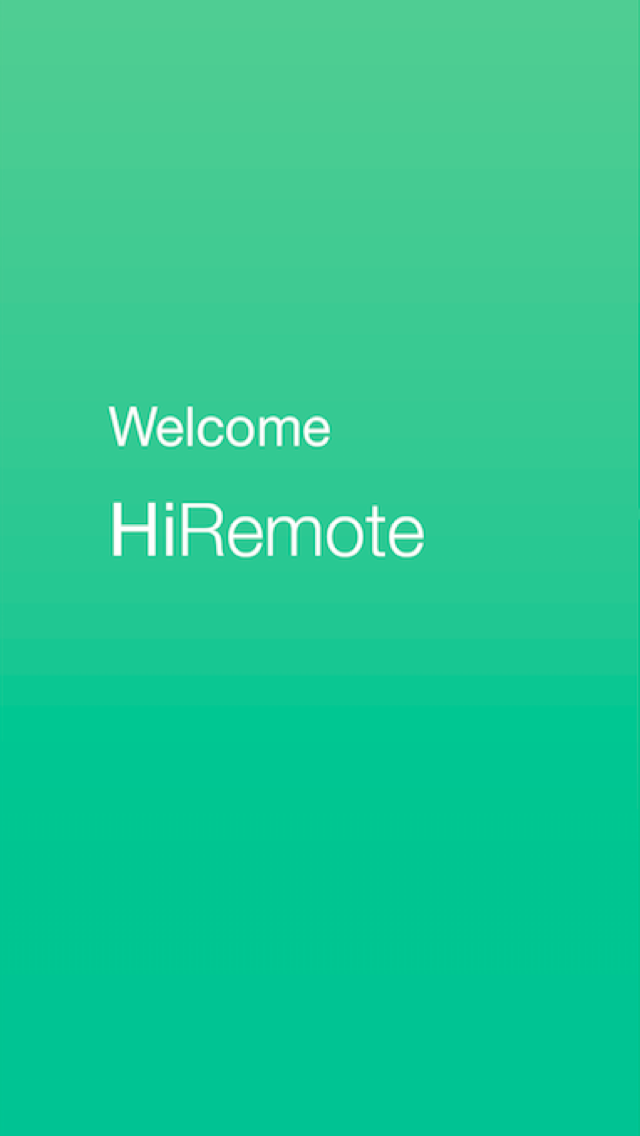
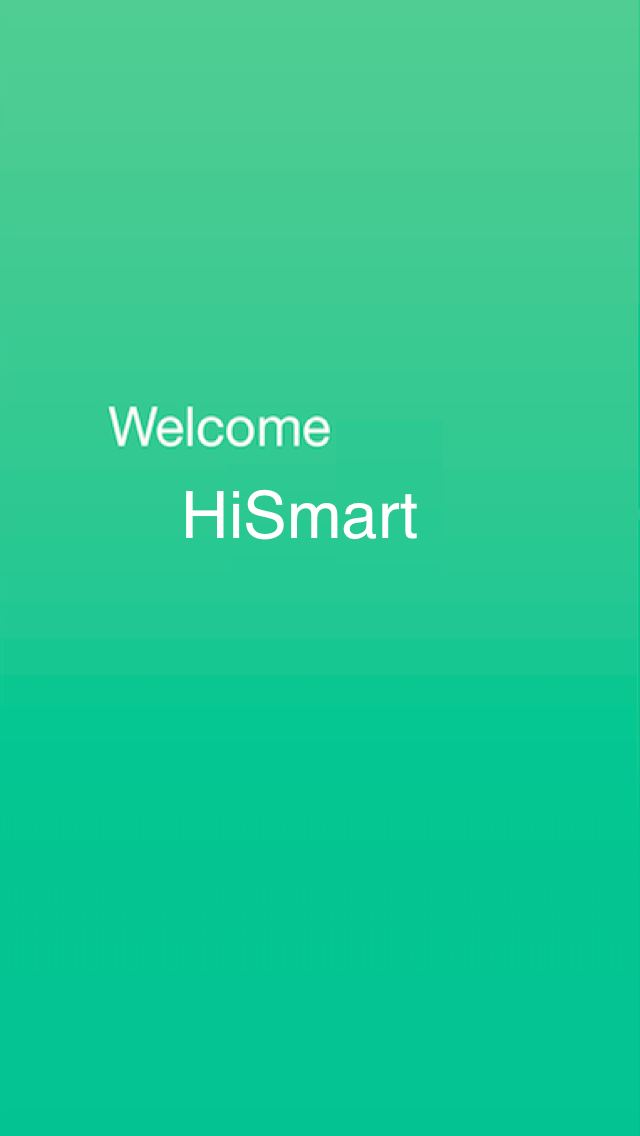
修改图片，修改id

Changed region(s): [[0.1562, 0.4313, 0.6875, 0.493]]

diff --git a/HiRemote/AppDelegate.m b/HiRemote/AppDelegate.m
@@ -557,7 +557,7 @@ void completionCallback (SystemSoundID  mySSID, void* data) {
 
 
 - (void)checkTheNewApp {
-    NSMutableURLRequest *request = [NSMutableURLRequest requestWithURL:[NSURL URLWithString:@"http://192.168.31.210:8090/lepow/api/apps"]
+    NSMutableURLRequest *request = [NSMutableURLRequest requestWithURL:[NSURL URLWithString:@"http://app.lepow.net:8080/lepow/api/apps"]
                                                            cachePolicy:NSURLRequestReloadIgnoringLocalCacheData
                                                        timeoutInterval:60.0];
     NSMutableDictionary *paraDic = [NSMutableDictionary dictionaryWithObjectsAndKeys:@"ios",@"system", nil];
@@ -597,11 +597,11 @@ void completionCallback (SystemSoundID  mySSID, void* data) {
         if (!connectionError) {
             NSDictionary *result = [NSJSONSerialization JSONObjectWithData:data options:kNilOptions error:nil];
             if ([result count] > 0) {
-                int code = [[result valueForKey:@"code"] integerValue];
+                long code = [[result valueForKey:@"code"] integerValue];
                 if (code == 0) {//成功
                     NSDictionary *infoDic = [result valueForKey:@"data"];
                     if (infoDic) {
-                        int status = [[infoDic valueForKey:@"status"] integerValue];
+                        long status = [[infoDic valueForKey:@"status"] integerValue];
                         NSString *des = [infoDic valueForKey:@"description"];
                         self.updateAppUrl = [infoDic valueForKey:@"plistUrl"];
                         if (status == 2) { //有效需要升级
